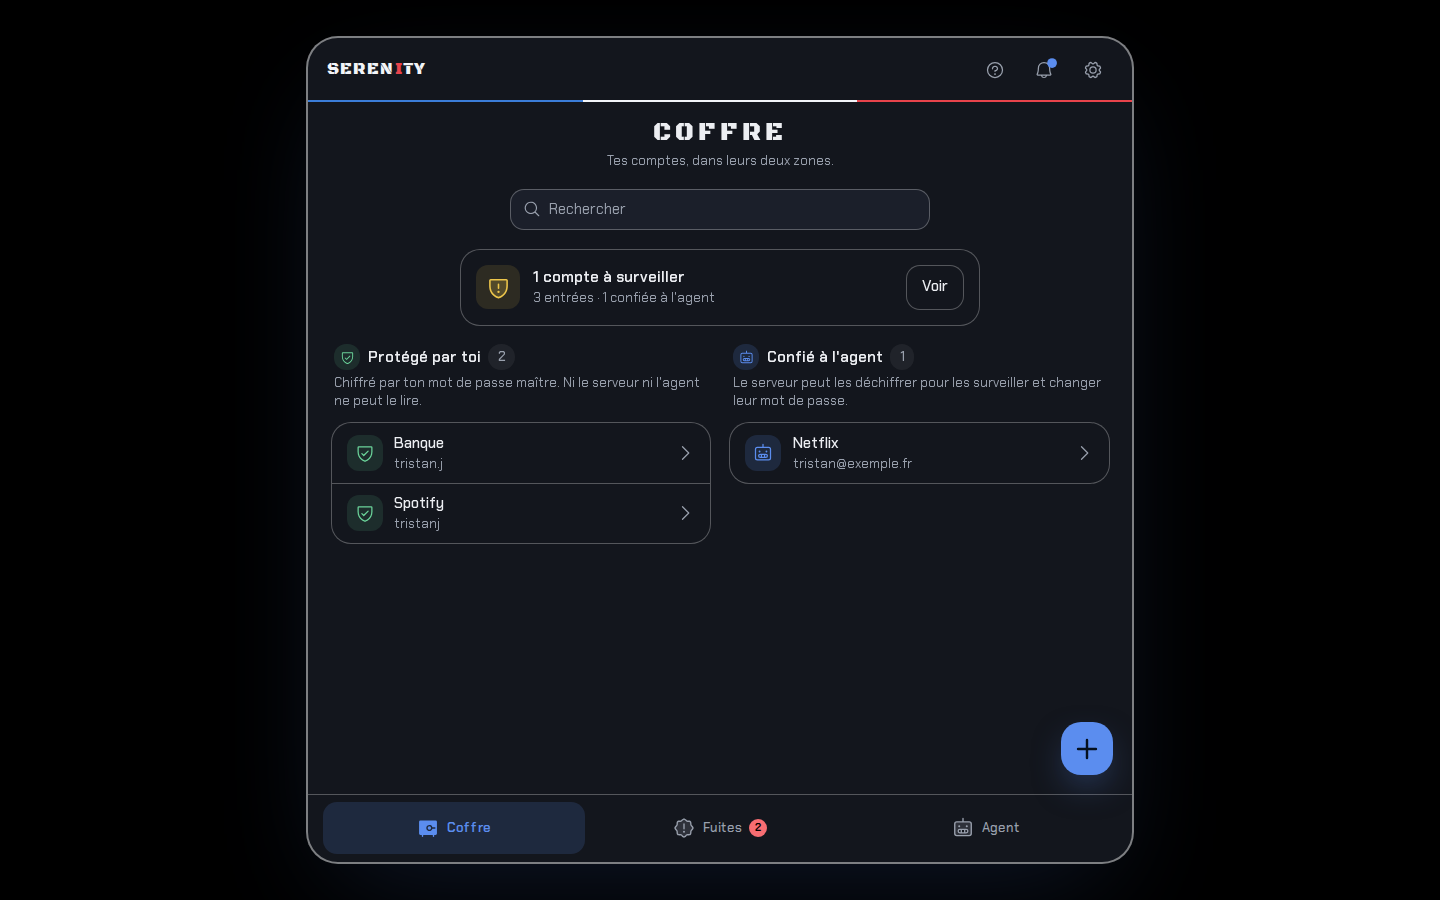
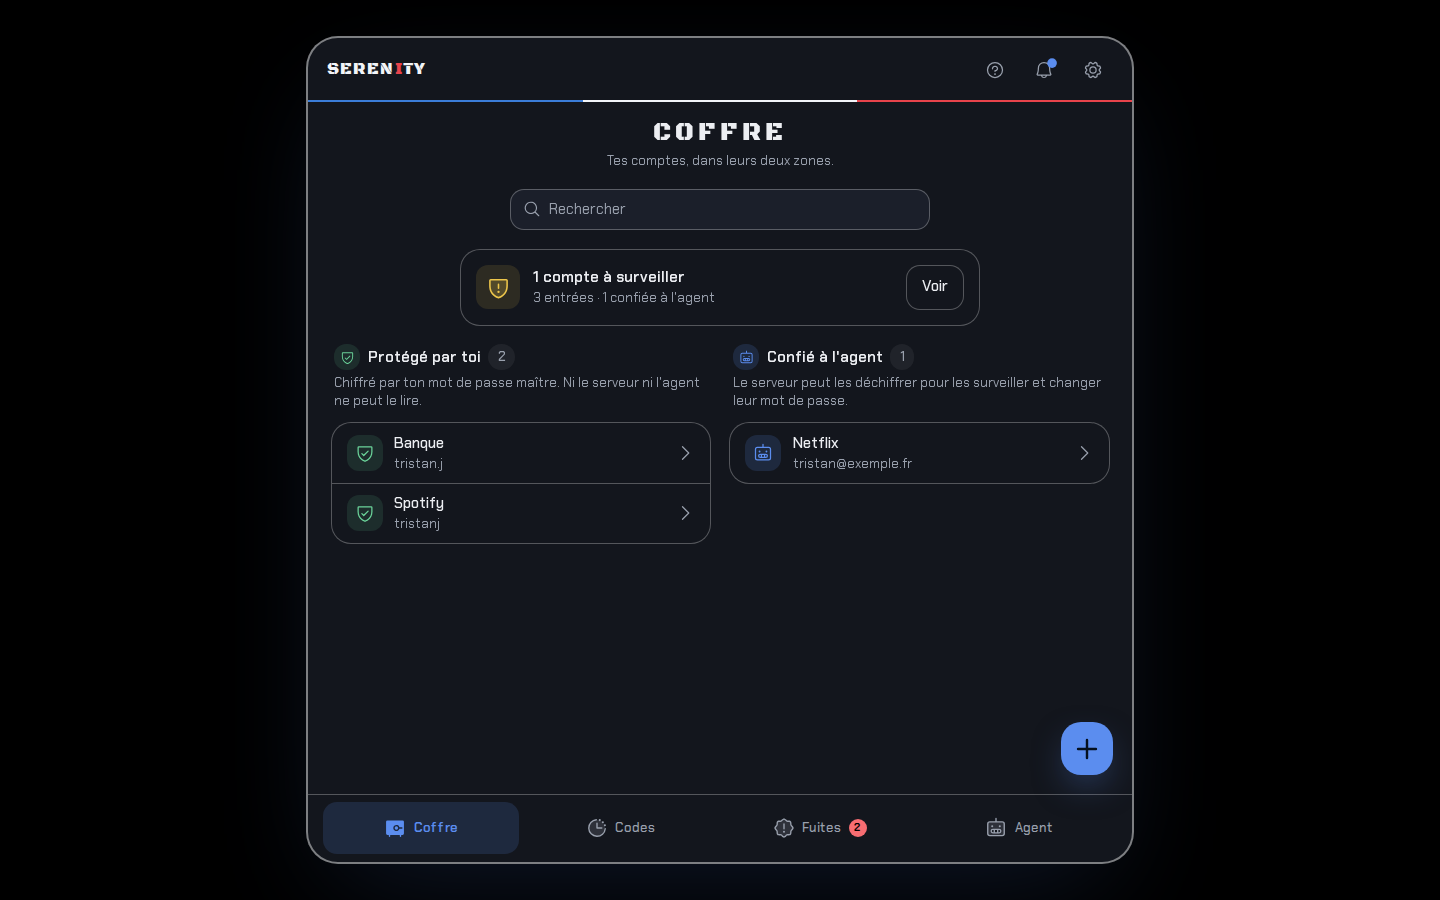
feat(ui): un onglet Codes pour les deux facteurs (#65)
* feat(ui): un onglet Codes pour les deux facteurs

Proposé par un ami de Tristan, et le plus dur était déjà fait : le calcul
RFC 6238 vit dans le navigateur depuis la phase 4, mais il fallait ouvrir une
entrée pour voir un code.

- Tous les codes du coffre sur un écran : code en direct, anneau des secondes
  restantes, copie en un geste, recherche. Aucune nouvelle dépendance, aucune
  nouvelle crypto, et l'écran marche hors ligne puisque rien n'est demandé au
  serveur.
- Chaque ligne porte la marque de sa zone, et une note dit combien de codes
  sont dans la zone agent, donc calculables par le serveur. C'est ce qui permet
  à l'agent de se reconnecter pendant une rotation, autant que ce soit écrit.
- Le dialogue « Confier à l'agent » le dit aussi, avant le geste : une entrée
  qui porte une clé à deux facteurs confie les deux.
- La charte passe de trois onglets à quatre. La règle change parce que Codes
  fait un travail que les autres ne font pas : le coffre sert à gérer un compte,
  Codes à lire un chiffre en deux secondes.
- make ui-smoke visite le nouvel écran, avec une vraie clé de test.

Claude-Session: https://claude.ai/code/session_017a28Z7BitobubucsP3B1ue

* docs: le changelog dit l'onglet Codes

Claude-Session: https://claude.ai/code/session_017a28Z7BitobubucsP3B1ue

---------

Changed region(s): [[0.25, 0.8711, 0.625, 0.9644], [0.6562, 0.9022, 0.7188, 0.9333]]

diff --git a/web/src/features/codes/CodesScreen.tsx b/web/src/features/codes/CodesScreen.tsx
@@ -1,0 +1,145 @@
+import {
+  ClockCountdownIcon,
+  MagnifyingGlassIcon,
+  RobotIcon,
+  VaultIcon,
+} from "@phosphor-icons/react";
+import { motion } from "motion/react";
+import { useMemo, useState } from "react";
+import { useEntries, type VaultEntry } from "../../app/hooks/useEntries";
+import { Header } from "../../app/shell/Header";
+import { useShell } from "../../app/shell/context";
+import { Button, Card, Chip, EmptyState, LIST, LIST_ITEM, Note } from "../../design";
+import { plural } from "../../lib/format";
+import { TotpCode } from "../vault/TotpCode";
+import { zoneChip } from "../vault/zone";
+
+/**
+ * One row per code. It is not a `<Row>`: the code carries its own copy button, and a button
+ * cannot live inside a button. The name keeps its own hit area, which opens the entry.
+ */
+function CodeRow({
+  entry,
+  first,
+  onOpen,
+}: {
+  entry: VaultEntry;
+  first: boolean;
+  onOpen: () => void;
+}) {
+  const chip = zoneChip(entry.item.zone);
+  return (
+    <div
+      className={`flex min-h-[60px] w-full items-center gap-3 px-4 py-2 ${first ? "" : "border-t border-line"}`}
+    >
+      <Chip icon={chip.icon} tone={chip.tone} />
+      <button
+        type="button"
+        onClick={onOpen}
+        title="Ouvrir la fiche"
+        className="flex min-w-0 flex-1 flex-col rounded-control py-1 text-left transition-colors duration-150 hover:bg-hover"
+      >
+        <span className="truncate text-body font-medium">{entry.entry.name}</span>
+        <span className="truncate text-caption text-muted">
+          {entry.entry.username || entry.domain || chip.label}
+        </span>
+      </button>
+      <TotpCode value={entry.entry.totp ?? ""} />
+    </div>
+  );
+}
+
+/**
+ * Every one-time code of the vault, on one screen. The codes are computed here, from the secret
+ * held in the entry: nothing is asked to the server, and the screen works offline.
+ */
+export function CodesScreen() {
+  const { entries } = useEntries();
+  const { openEntry, go } = useShell();
+  const [query, setQuery] = useState("");
+
+  const coded = useMemo(() => entries.filter((e) => (e.entry.totp ?? "").trim() !== ""), [entries]);
+  const filtered = useMemo(() => {
+    const needle = query.trim().toLowerCase();
+    if (!needle) return coded;
+    return coded.filter((e) =>
+      [e.entry.name, e.entry.username, e.domain ?? ""].join(" ").toLowerCase().includes(needle),
+    );
+  }, [coded, query]);
+  const delegated = coded.filter((e) => e.item.zone === "agent").length;
+
+  return (
+    <>
+      <Header title="Codes" subtitle="Tes codes à deux facteurs, calculés sur cet appareil." />
+      <div className="mx-auto flex w-full max-w-[720px] flex-col gap-4">
+        {coded.length > 0 ? (
+          <div className="relative mx-auto w-full max-w-[420px]">
+            <MagnifyingGlassIcon
+              size={18}
+              aria-hidden="true"
+              className="pointer-events-none absolute left-3.5 top-1/2 -translate-y-1/2 text-muted"
+            />
+            <input
+              type="search"
+              aria-label="Rechercher un code"
+              placeholder="Rechercher"
+              value={query}
+              onChange={(e) => {
+                setQuery(e.target.value);
+              }}
+              className="h-11 w-full rounded-control border border-line bg-raised pl-10 pr-4 text-body outline-none placeholder:text-muted focus-visible:border-accent"
+            />
+          </div>
+        ) : null}
+
+        {coded.length === 0 ? (
+          <EmptyState
+            icon={ClockCountdownIcon}
+            title="Aucun code pour l'instant."
+            text="Ouvre une entrée, puis colle son lien otpauth:// ou sa clé dans le champ « Clé TOTP ». Le code se calcule ici, jamais sur le serveur."
+            action={
+              <Button
+                icon={VaultIcon}
+                onClick={() => {
+                  go("vault");
+                }}
+              >
+                Aller au coffre
+              </Button>
+            }
+          />
+        ) : filtered.length === 0 ? (
+          <EmptyState icon={MagnifyingGlassIcon} title="Aucun code à ce nom." />
+        ) : (
+          <Card padded={false}>
+            <motion.div variants={LIST} initial="initial" animate="animate">
+              {filtered.map((e, i) => (
+                <motion.div key={e.item.id} variants={LIST_ITEM}>
+                  <CodeRow
+                    entry={e}
+                    first={i === 0}
+                    onOpen={() => {
+                      openEntry(e.item.id);
+                    }}
+                  />
+                </motion.div>
+              ))}
+            </motion.div>
+          </Card>
+        )}
+
+        {/*
+          The model, said where it matters: a code in the agent zone is a code the server can
+          produce too. That is what lets the agent log back in during a rotation.
+        */}
+        {delegated > 0 ? (
+          <Note tone="accent" icon={RobotIcon}>
+            {plural(delegated, "code est", "codes sont")} dans la zone agent : le serveur peut les
+            calculer aussi, c'est ce qui lui permet de se reconnecter à ta place. Les autres ne
+            quittent jamais cet appareil.
+          </Note>
+        ) : null}
+      </div>
+    </>
+  );
+}

diff --git a/web/src/app/shell/nav.ts b/web/src/app/shell/nav.ts
@@ -1,12 +1,27 @@
-import { type Icon, RobotIcon, SealWarningIcon, VaultIcon } from "@phosphor-icons/react";
+import {
+  ClockCountdownIcon,
+  type Icon,
+  RobotIcon,
+  SealWarningIcon,
+  VaultIcon,
+} from "@phosphor-icons/react";
 import type { Tab } from "./context";
 
 /**
- * The three screens of the app. The journal is deliberately not here: it is a record you
+ * The four screens of the app. The journal is deliberately not here: it is a record you
  * consult, not a place you work in: it lives in the settings, and the agent screen links to it.
+ *
+ * Codes sits next to the vault because it is the same data seen for another job: the vault is
+ * where you manage an account, Codes is where you grab a number in two seconds.
  */
 export const TABS: { id: Tab; label: string; hint: string; icon: Icon }[] = [
   { id: "vault", label: "Coffre", hint: "Tes comptes, dans leurs deux zones.", icon: VaultIcon },
+  {
+    id: "codes",
+    label: "Codes",
+    hint: "Tes codes à deux facteurs, calculés sur cet appareil.",
+    icon: ClockCountdownIcon,
+  },
   {
     id: "breaches",
     label: "Fuites",

diff --git a/web/src/features/vault/EntryDialog.tsx b/web/src/features/vault/EntryDialog.tsx
@@ -344,7 +344,13 @@ export function EntryDialog({ entry, onClose }: { entry: VaultEntry | null; onCl
         explanation={
           agentZone
             ? "Elle repassera dans ta zone personnelle et l'agent ne pourra plus la lire. Change ensuite ce mot de passe : le serveur l'a connu."
-            : "Le serveur pourra la déchiffrer pour surveiller les fuites et changer son mot de passe. Tu peux la reprendre à tout moment."
+            : // A second factor stored here is a second factor the server can produce: it has to
+              // be said before the move, not discovered after.
+              `Le serveur pourra la déchiffrer pour surveiller les fuites et changer son mot de passe.${
+                data.totp
+                  ? " Il pourra aussi calculer son code à deux facteurs, ce dont l'agent a besoin pour se reconnecter."
+                  : ""
+              } Tu peux la reprendre à tout moment.`
         }
         confirmLabel={agentZone ? "Reprendre" : "Confier"}
         onCancel={() => {

diff --git a/web/src/app/shell/Shell.tsx b/web/src/app/shell/Shell.tsx
@@ -3,6 +3,7 @@ import { useCallback, useMemo, useState } from "react";
 import { AgentScreen } from "../../features/agent/AgentScreen";
 import { SettingsDialog } from "../../features/account/SettingsDialog";
 import { BreachesScreen } from "../../features/breaches/BreachesScreen";
+import { CodesScreen } from "../../features/codes/CodesScreen";
 import { EntryDialog } from "../../features/vault/EntryDialog";
 import { EntryEditor } from "../../features/vault/EntryEditor";
 import { GuideDialog } from "../../features/guide/GuideDialog";
@@ -20,6 +21,7 @@ import { TabBar } from "./TabBar";
 
 const SCREENS: Record<Tab, () => React.ReactElement> = {
   vault: VaultScreen,
+  codes: CodesScreen,
   breaches: BreachesScreen,
   agent: AgentScreen,
 };

diff --git a/web/src/app/shell/context.ts b/web/src/app/shell/context.ts
@@ -1,6 +1,6 @@
 import { createContext, useContext } from "react";
 
-export type Tab = "vault" | "breaches" | "agent";
+export type Tab = "vault" | "codes" | "breaches" | "agent";
 /** Sections of the settings dialog, so other screens can open it where they need to. */
 export type SettingsSection =
   | "lock"

diff --git a/docs/07-interface.md b/docs/07-interface.md
@@ -15,6 +15,7 @@ min(92vw, 92vh, 980px)), qui devient le plein écran sous 768 px, et s'ouvre par
 | **Récupération** | Kit + code, nouveau mot de passe maître, **nouveau kit** |
 | **Coffre** | Les deux zones, chacune avec une phrase qui dit qui peut la lire (côte à côte dès que le carré dépasse 620 px), recherche, ajout avec générateur |
 | **Fiche** (dialogue centré) | Copier l'identifiant, afficher / copier le mot de passe (effacé du presse-papiers après 30 s), code TOTP en direct, rotation ou rappel, historique, **Confier à l'agent / Reprendre**, modifier, supprimer (les trois derniers avec confirmation) |
+| **Codes** | Tous les codes à deux facteurs du coffre sur un écran : code en direct, anneau des secondes restantes, copie en un geste, recherche. Chaque ligne porte la marque de sa zone, et un mot dit lesquels le serveur peut calculer aussi |
 | **Fuites** | Veille lancée à l'ouverture de l'onglet, une alerte par carte, « Ouvrir l'entrée » et « Mettre de côté » |
 | **Journal** (dans les réglages) | Filtres Tout / Agent / Toi / Système, regroupé par jour ; l'écran Agent y renvoie |
 | **Agent** | Kill switch (avec confirmation), rotations à approuver ou refuser, prochaines rotations, garde-fous |
@@ -24,6 +25,7 @@ min(92vw, 92vh, 980px)), qui devient le plein écran sous 768 px, et s'ouvre par
 
 <p>
   <img src="img/coffre.png" alt="Coffre" width="210">
+  <img src="img/codes.png" alt="Codes à deux facteurs" width="210">
   <img src="img/fiche.png" alt="Fiche d'une entrée" width="210">
   <img src="img/fuites.png" alt="Fuites" width="210">
   <img src="img/agent.png" alt="Agent" width="210">
@@ -60,6 +62,11 @@ min(92vw, 92vh, 980px)), qui devient le plein écran sous 768 px, et s'ouvre par
   seulement pour libsodium, sorties réseau limitées à Serenity et à Pwned Passwords, polices
   servies localement, pas d'intégration dans une autre page. En-têtes : HSTS, COOP, CORP,
   `no-referrer`, `nosniff`, `Permissions-Policy`.
+- **Les codes à deux facteurs sont calculés ici** (`web/src/lib/totp.ts`, RFC 6238 avec Web
+  Crypto), à partir du secret rangé dans l'entrée. Rien n'est demandé au serveur, et l'onglet
+  Codes marche hors ligne. Un secret rangé dans la **zone agent** est en revanche lisible par le
+  serveur, qui peut donc produire le même code : c'est ce qui permet à l'agent de se reconnecter
+  pendant une rotation, et l'écran le dit.
 - **Temps réel** : tant que l'appli est ouverte, les nouvelles alertes et rotations arrivent par
   `/api/events`, mettent l'écran à jour et s'empilent dans le centre de notifications (la cloche).
 - **Rien d'irréversible sans un mot d'explication** : supprimer, confier, reprendre, déconnecter

diff --git a/docs/design.md b/docs/design.md
@@ -32,12 +32,17 @@ tout l'écran (`AppFrame`, `web/src/app/shell/`).
 │  une phrase qui explique │  contenu, seul à défiler
 │  …                    (+)│  l'ajout flotte en bas à droite
 ├──────────────────────────┤
-│  Coffre   Fuites   Agent │  trois onglets, pas plus
+│ Coffre Codes Fuites Agent│  quatre onglets, pas plus
 └──────────────────────────┘
 ```
 
-**Trois onglets seulement.** Le journal n'en fait pas partie : c'est un registre qu'on consulte,
-pas un endroit où l'on travaille. Il vit dans les réglages, et l'écran Agent y renvoie.
+**Quatre onglets, et pas un de plus.** La règle disait trois ; **Codes** l'a fait changer, et
+seulement parce qu'il fait un travail que les autres ne font pas : attraper un chiffre en deux
+secondes. Le coffre sert à gérer un compte, Codes à lire un code. Même données, deux gestes.
+Toute proposition d'un cinquième onglet devra démontrer la même chose.
+
+Le journal n'en fait pas partie : c'est un registre qu'on consulte, pas un endroit où l'on
+travaille. Il vit dans les réglages, et l'écran Agent y renvoie.
 « Verrouiller maintenant » n'est pas non plus dans la barre de titre : c'est une action de
 réglage, pas une action de tous les jours (le verrouillage automatique s'en charge).
 
@@ -53,6 +58,7 @@ réagissent à la place réellement disponible.
 |---|---|---|
 | Titre d'écran | 20 px | 26 px |
 | Onglets | icône au-dessus du mot | icône à côté du mot |
+| Code à deux facteurs | code, anneau, copie | idem, avec plus d'air autour du nom |
 | Zones du coffre | l'une sous l'autre | côte à côte |
 | Bouton d'ajout | icône seule | bouton « Ajouter » |
 

diff --git a/CHANGELOG.md b/CHANGELOG.md
@@ -115,6 +115,12 @@ versionnage : [SemVer](https://semver.org/lang/fr/).
   sont maintenant dessinés dans les mêmes lettres que « SERENITY », avec Black Ops One servie
   localement comme les deux autres polices. Elle ne sert qu'aux titres : trois mots par écran,
   jamais une phrase.
+- **Un onglet Codes.** Tous les codes à deux facteurs du coffre sur un écran : code en direct,
+  anneau des secondes restantes, copie en un geste, recherche. Le calcul était déjà là
+  (RFC 6238 dans le navigateur, avec Web Crypto) mais il fallait ouvrir une entrée pour voir un
+  code. Chaque ligne porte la marque de sa zone, et une note dit combien de codes le serveur
+  peut calculer aussi. Le dialogue « Confier à l'agent » prévient maintenant quand l'entrée
+  porte une clé à deux facteurs. La charte passe de trois onglets à quatre, et dit pourquoi.
 - **La revue de sécurité** (`docs/10-securite.md`) : ce qui a été vérifié avec la commande pour
   le rejouer (surface réseau, privilèges des conteneurs, secrets dans l'historique, dépendances
   Python et npm, en-têtes HTTP), le modèle de menace résumé en un tableau de ce que gagne un
